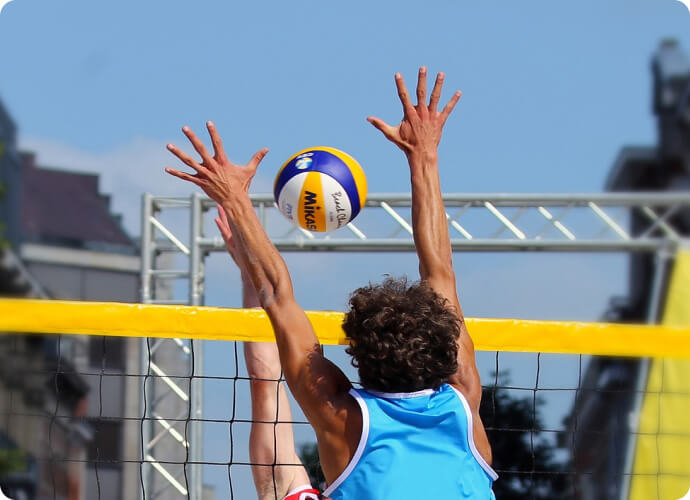
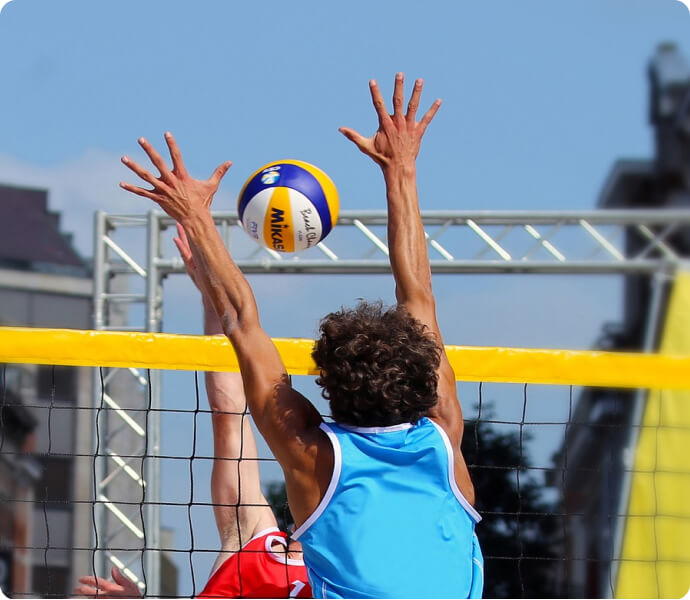
:recycle: refactor Conclusão do CSS para o componente TextImage

diff --git a/src/components/text-image/text-image.js b/src/components/text-image/text-image.js
@@ -7,8 +7,12 @@ import './text-image.scss';
 export const TextImage = memo((props) => {
     const title = props.title;
     const description = props.description;
-    const image = props.img;
     const alternate = props.alternate ? props.alternate : false;
+    const image = props.img;
+    const imageWidth = props.imgWidth ? props.imgWidth : 690;
+    const imageHeight = props.imgHeight ? props.imgHeight : 500;
+    const imgAlt = props.imgAlt ? props.imgAlt : '';
+    const sectionClasses = `section-home text-image${alternate ? ' alternate' : ''}`;
 
     if (!props) {
         return (
@@ -20,7 +24,7 @@ export const TextImage = memo((props) => {
                         <Skeleton height={60} width={230} count={1} />
                     </div>
                     <div className='right-content'>
-                        <Skeleton height={682} width={682} count={1} borderRadius="500px" />
+                        <Skeleton height={imageWidth} width={imageHeight} count={1} borderRadius="500px" />
                     </div>
                 </div>
             </section>
@@ -28,14 +32,14 @@ export const TextImage = memo((props) => {
     }    
 
     return (
-        <section className='section-home text-image'>
+        <section className={sectionClasses}>
             <div className='container'>
                 <div className='left-content'>
                     <h2 data-custom-title="section" dangerouslySetInnerHTML={{ __html: DOMPurify.sanitize(title) }}></h2>
                     <p dangerouslySetInnerHTML={{ __html: DOMPurify.sanitize(description) }}></p>
                 </div>
                 <div className='right-content'>
-                    <img className="img-responsive" src={image} width="690" height="500" alt="Foto de Caio Ferreira" />
+                    <img className="img-responsive" src={image} width={imageWidth} height={imageHeight} alt={imgAlt} />
                 </div>
             </div>
         </section>

diff --git a/src/components/text-image/text-image.scss b/src/components/text-image/text-image.scss
@@ -1,0 +1,39 @@
+.text-image {
+
+    &.alternate {
+
+        .right-content {
+            order: -1;
+        }
+    }
+
+    .container{
+        display: grid;
+        grid-template-columns: repeat(2,1fr);
+        gap: 48px;
+
+        .left-content {
+
+            p {
+                margin: 32px 0 0;
+                font-weight: 600;
+                font-size: 1.5rem;
+                line-height: 1.5em;
+                color: $color-black;
+
+                a {
+                    display: inline;
+                    color: $color-tertiary;
+        
+                    &[href]{
+                        transition: color 300ms ease-in-out;
+        
+                        &:hover {
+                            color: $color-secondary;
+                        }
+                    }
+                }
+            }
+        }
+    }
+}

diff --git a/src/pages/about/about.js b/src/pages/about/about.js
@@ -48,6 +48,9 @@ export const About = (props) => {
                 title={whenNotCodingTitle}
                 description={whenNotCodingDescription}
                 img={whenNotCodingImage}
+                imgWidth="690"
+                imgHeight="600"
+                imgAlt=""
                 alternate={true}
             />
             <Reviews 

diff --git a/src/styles/_variables.scss b/src/styles/_variables.scss
@@ -4,6 +4,7 @@ $color-primary: #01161E;
 $color-secondary: #124559;
 $color-tertiary: #67b7a0;
 $color-white: #fefefe;
+$color-black: #2b2b2b;
 
 $screen-xl: 'only screen and (min-width:1600px)';
 $screen-lg: 'only screen and (min-width:1200px)';
